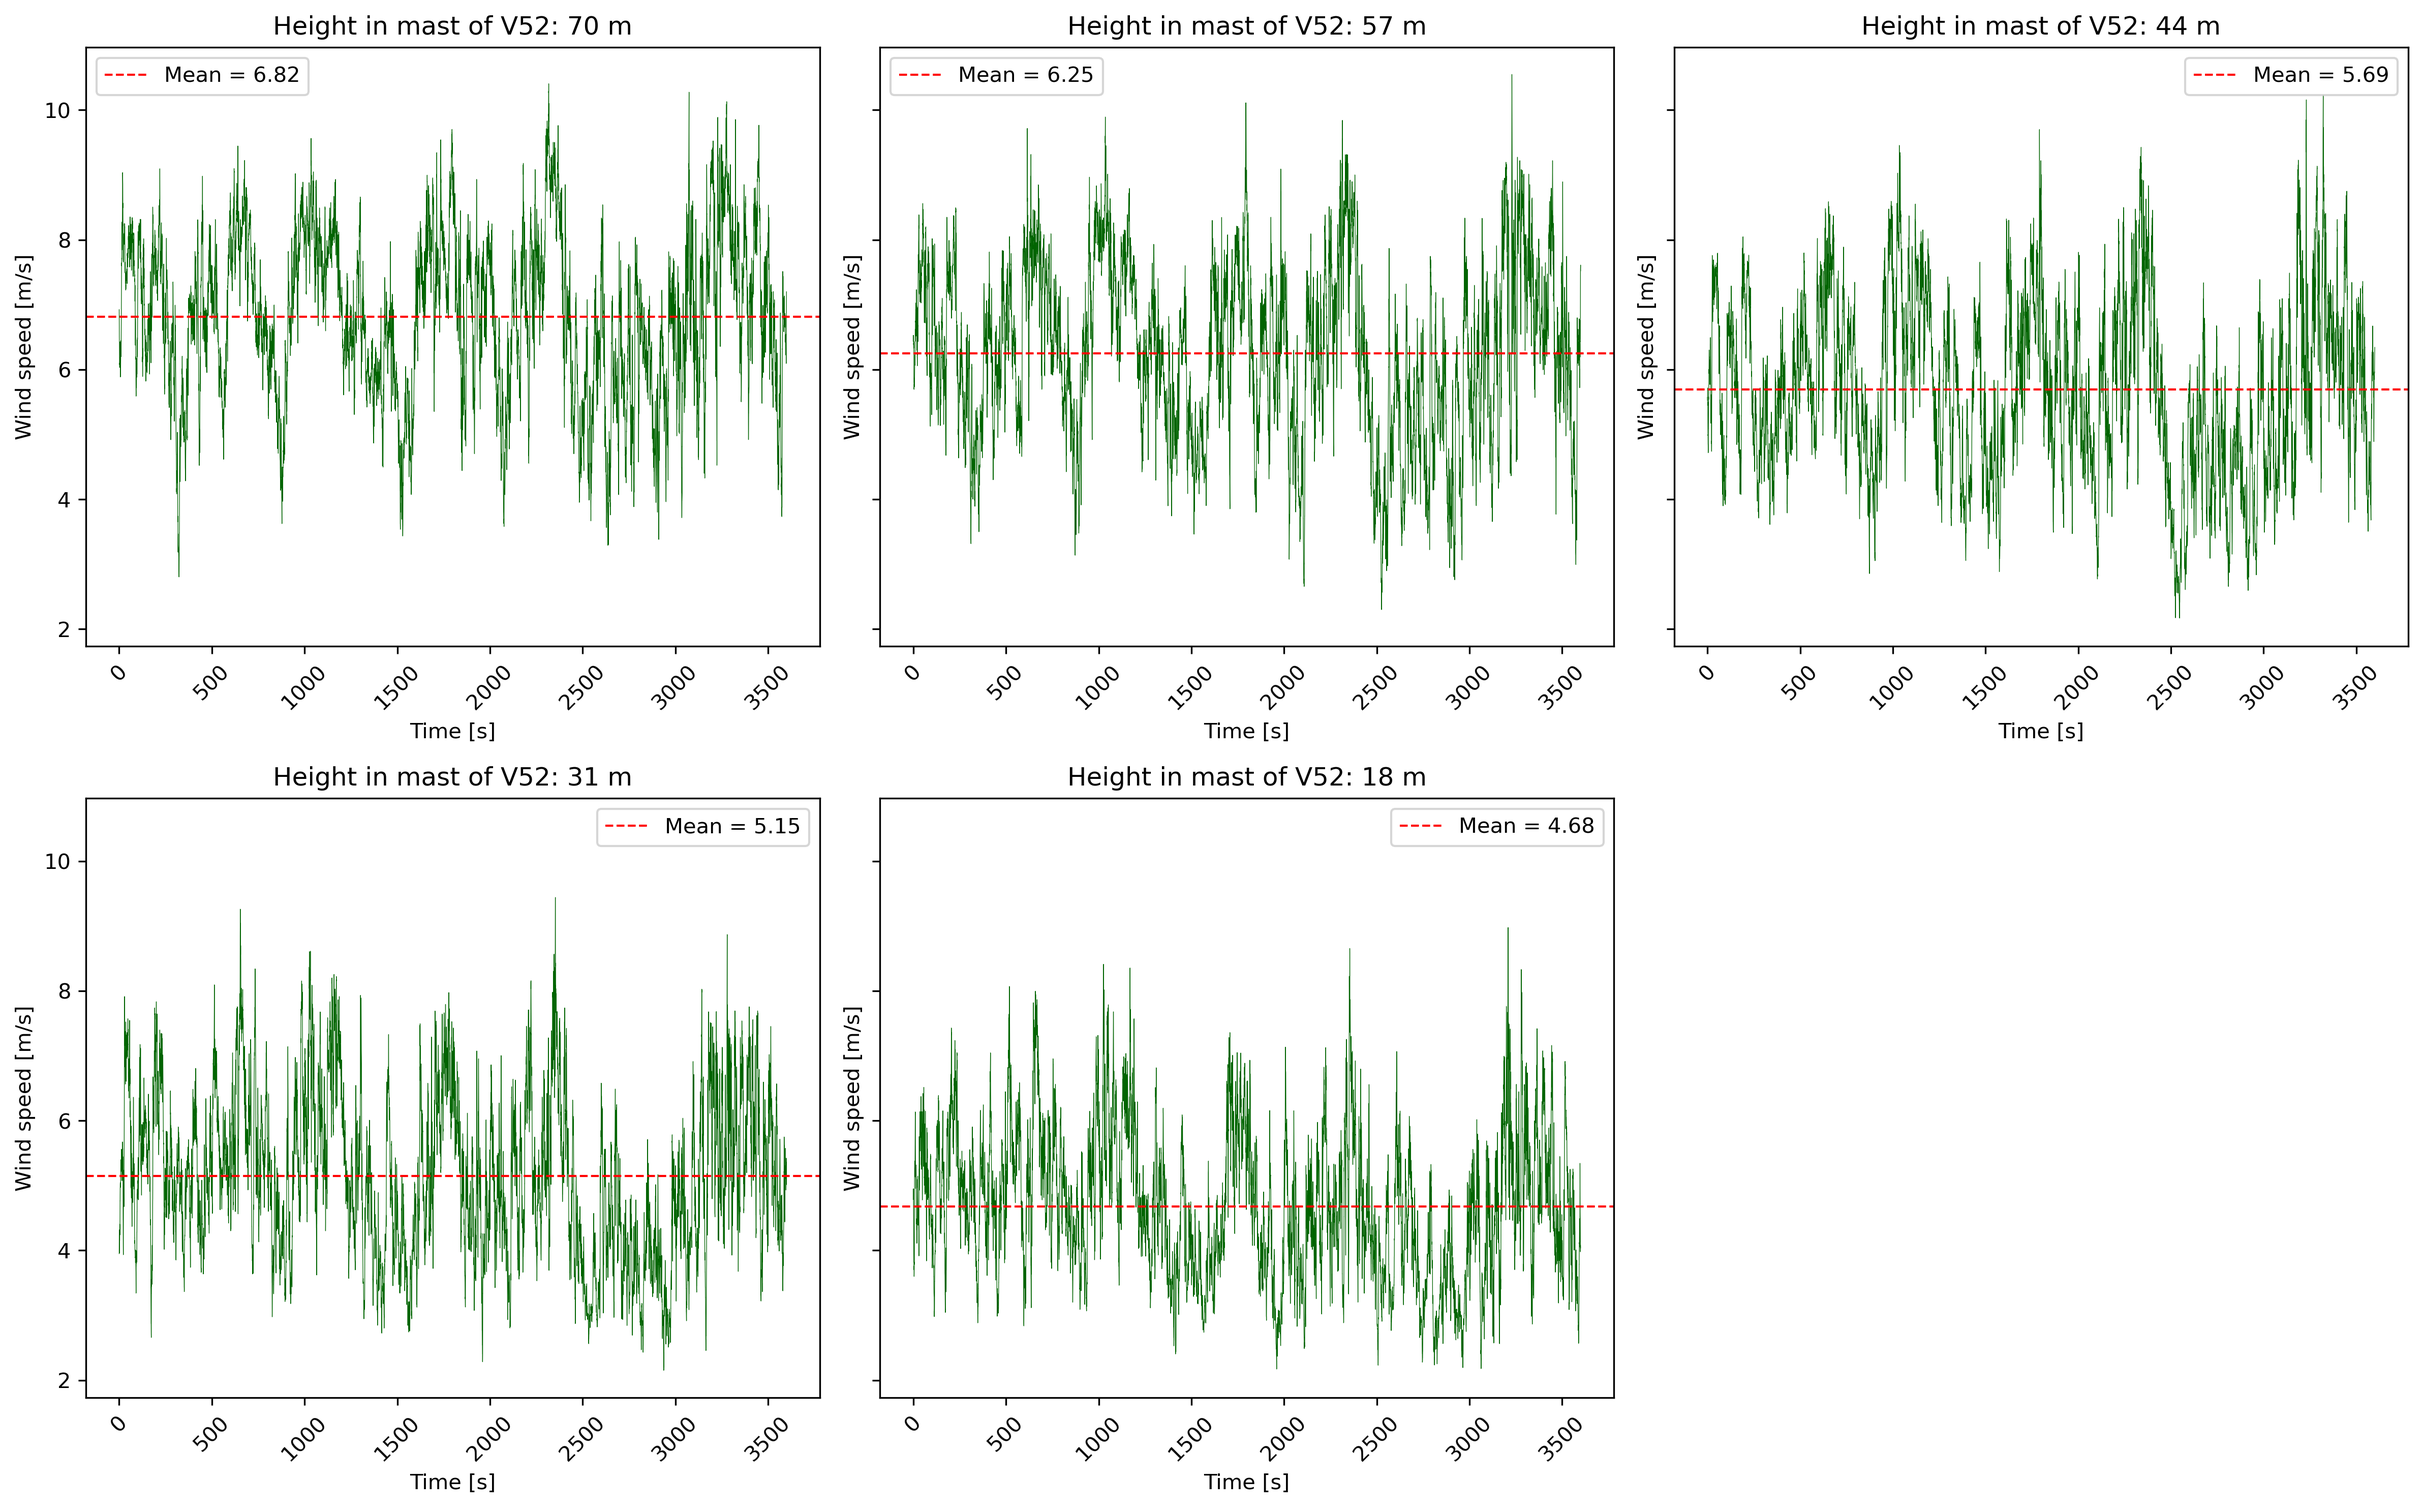
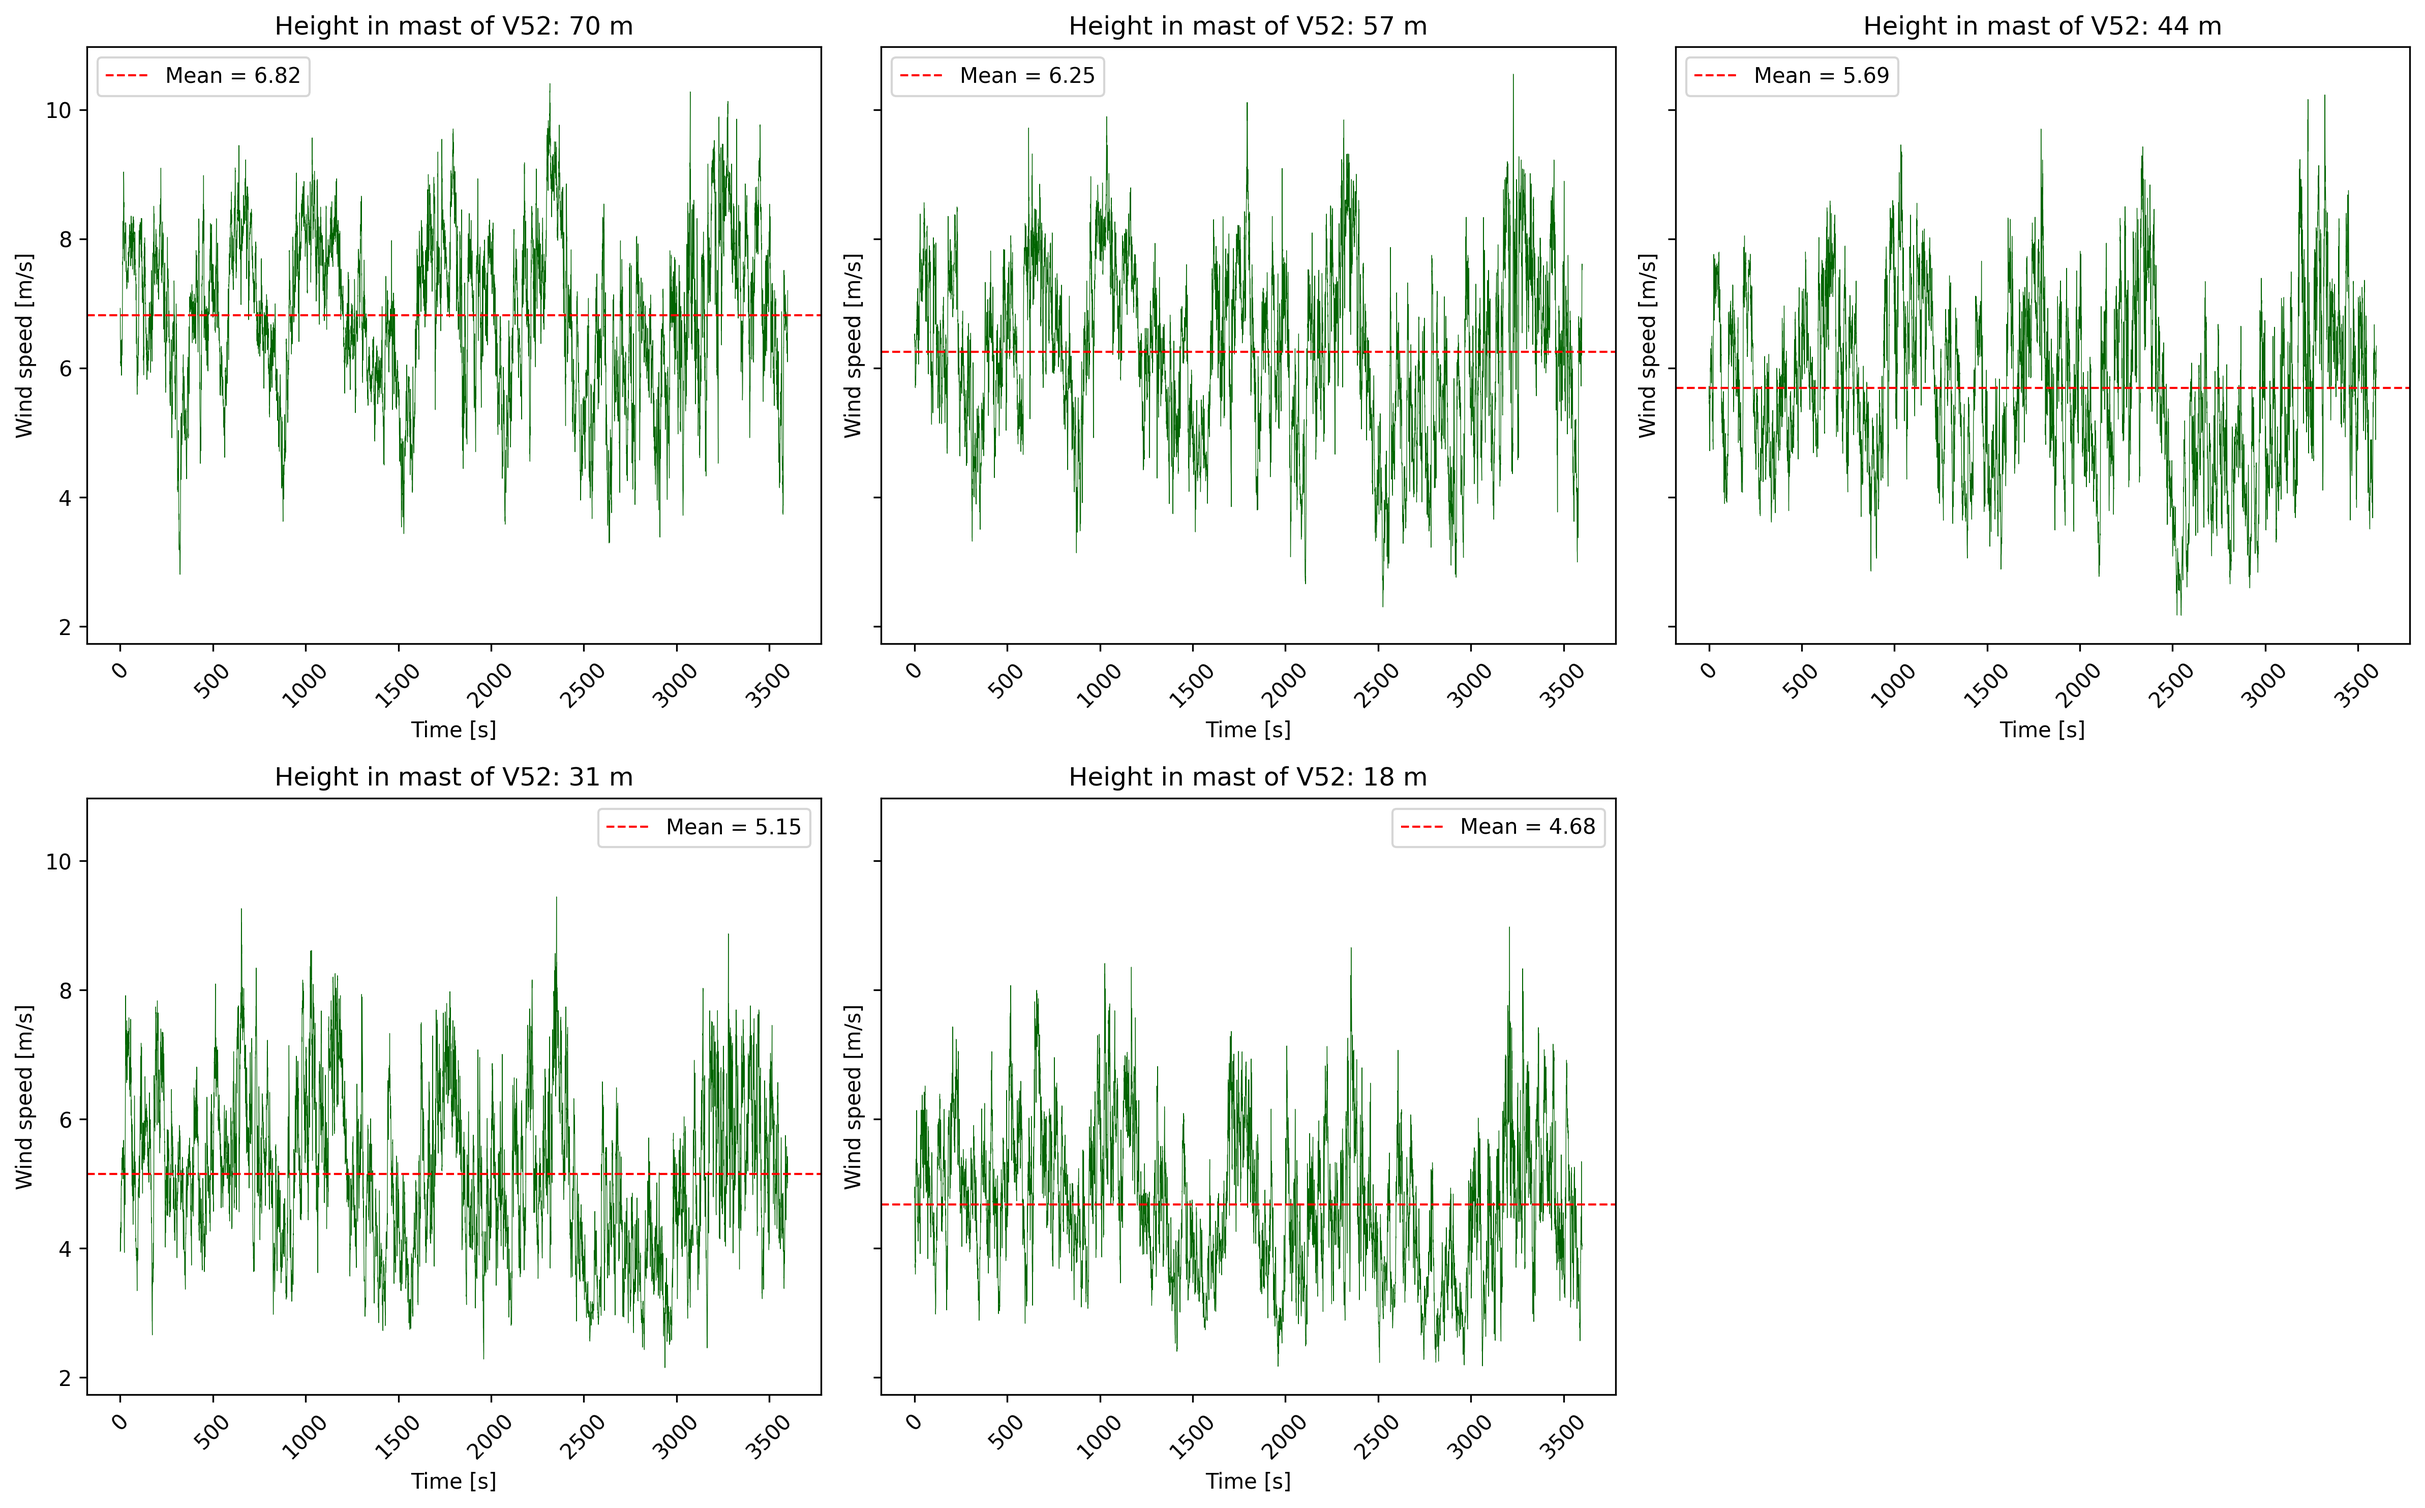
filled in Q's 1-5 in part 1 report + generated Q3

diff --git a/part_1.tex b/part_1.tex
@@ -2,7 +2,7 @@
 \label{sec:part1}
 
 \subsection{Met Mast and Location}
-\textbf{Task:} Describe the met mast and its location. How do the surroundings of the mast look in terms of terrain roughness? How far is the mast from the turbine and in which direction? Why?
+\textbf{Task 1:} Describe the met mast and its location. How do the surroundings of the mast look in terms of terrain roughness? How far is the mast from the turbine and in which direction? Why?
 
 The measurements are from DTU Risø Campus using a met mast with a total height of 70 m. The mast is around 120 m, away from the Vestas V52 wind turbine.
 Regarding the terrain, the location is characterized by varying roughness lengths. To the west, it's dominated by the Roskilde Fjord, which leads to very low terrain roughness. In the other directions, the roughness is higher due to a mix of open fields with light vegetation and the campus buildings.
@@ -11,31 +11,67 @@ Therefore free flow measurements can be obtained.
 % Hier Text einfügen
 
 \subsection{Data Collection}
-\textbf{Task:} Describe the data collected. What has been measured, what units, what sample rate, where at the mast and with what instruments?
+\textbf{Task 2:} Describe the data collected. What has been measured, what units, what sample rate, where at the mast and with what instruments?
 
-The data collected on February 10th, 2026, corresponds to three categories: \textbf{Wsp, AirAbs, Sdir}. They correspond to horizontal wind speeds measured with cup anemometers and wind vanes in $m/s^2$, to temperature measured with \textcolor{red}{how is it measured?} in $\º$C, and southern wind direction in $\º$. 
+The data collected on February 10th, 2026 between 10.00 and 11.00, corresponds to three categories: \textbf{Wsp, AirAbs, and Sdir}. They respectively describe horizontal wind speeds measured in $m/s^2$, temperature measured in $º$ C, and southern wind direction measured in $º$. 
 
-Since the wind is a dynamic fluid, each category varies according to height prompting them to be measured at different rungs of the mast. Wsp is measured at 70 m (i.e. the uppermost level of the mast), 57 m, 44 m, 31 m, and 18 m; then, AirAbs is measured at 70 m and 18 m; and lastly, Sdir is measured at 70 m, 44 m, and 18 m.
+Since wind is a dynamic fluid, and it varies according to its distance from the ground and its temperature, each category varies with height. This encourages recordings for each category to happen simultaneously at different rungs of the mast. Wsp is measured at 70 m (i.e. the uppermost level of the mast), 57 m, 44 m, 31 m, and 18 m; then, AirAbs is measured at 70 m and 18 m; and lastly, Sdir is measured at 70 m, 44 m, and 18 m.
 
-All measurements, i.e. the three categories at their respective mast heights, are simultaneously recorded with 10-minutes resolution. 
+All three categories at their respective mast heights get 3000 readings every 10 minutes, i.e. the have a sampling rate of 5 Hz.
+
+Lastly, the recordings at different heights also indicate the tool used to make the measurements since we know where in the mast of turbine V52 the tools are. As such, for wind speed (Wsp), the cup anemometer and the sonic anemometer are used, for temperature (AirAbs), the thermometer is used, and for wind direction (Sdir) only the sonic anemometer is used since the cup anemometer, which is also installed and the pertinent mast heights, cannot track wind direction.
+
 
 \subsection{Raw Time Series Plot}
-\textbf{Task:} Plot the raw time series of the wind speed at the different heights. What time scales do you see? Do they differ for the different heights?
+\textbf{Task 3:} Plot the raw time series of the wind speed at the different heights. What time scales do you see? Do they differ for the different heights?
 
 \begin{figure}[H]
     \centering
-    % \includegraphics[width=0.8\textwidth]{figures/Q3_plot.png}
+    \includegraphics[width=0.8\textwidth]{figures/Q3_plot.png}
     \caption{Raw wind speed time series at various heights (10th Feb 2026).}
 \end{figure}
 
+The plots in Figure \textcolor{red}{cite the relevant figure} show the wind speeds recorded at different heights, i.e. rungs, of the measurement mast of turbine V52. Across all five of them, one can observe irregularities in the behavior, which correspond to turbulences in the flow of the wind. These are described in two scales––time-wise and spatial––, which in the plots correspond to the duration of the inflections in the curve and to the shape of the curve, respectively.
+
+With this in mind, turbulences seem to occur in a shorter and in a longer time span at all five heights, while keeping a similar overall shape. The first relates to time scales, so changes in wind speed happen in the seconds-long scale, which correspond to local and small disturbances that look almost like noise, and so do they happen in the minutes-long scale, which correspond to overall pattern changes that lead to evident dips and raises in the plots. 
+
+The former scale then lead to the spatial scale, which determines what type of duration the turbulence will have. Sudden changes (seconds-long), like a sudden draft, will usually be physically contained an occur at a specific height, which allows us to have five different plots. However, progressive changes (minutes-long), like the transition from day to night, will usually span several heights and affect a range of air parcels, which results in still similar 5 plots. 
+This is particularly evident in the 2400-3300 seconds range in Figure \textcolor{red}{cite the relevant figure}, which shows a w-shape in the five heights where an important drop is followed by a slight increase, a drop and an important increase in wind speed.
+
+Lastly, height and average wind speed appear to be directly proportional, such that lower heights experience lower mean wind speeds while the opposite is true for higher heights. 
+
 \subsection{Logarithmic Wind Profile}
-\textbf{Task:} Plot the average wind speed for each height against height $z$. Can the profile be described by a logarithmic wind profile?
+\textbf{Task 4:} Plot the average wind speed for each height against height $z$. Can the profile be described by a logarithmic wind profile?
+
+\begin{figure}[H]
+    \centering
+    \includegraphics[width=0.8\textwidth]{figures/Q4_plot.png}
+    \caption{Average wind speeds at various heights and fitted logarithmic profile (10th Feb 2026).}
+\end{figure}
+
+In Q1 we observed that "the prevailing winds in the area come from the west, over the fjord...which leads to very low terrain roughness", yet we must recall that there existed a stretch of open land, recently snowed on, between the fjord and the measurement mast. According to the literature (page 14, slides of "Wind Profiles" Lecture), the roughness length of farmland with open appearance, snow surfaces, and fjords are $0.05$, $10^{-3}$, and $10^{-4}$, respectively. 
+
+The fitted curve however, used $z_0 = 0.9766$, which more closely resembles the roughness of a city. This may be the case because during the day of the visit we had eastern winds, which corresponds to an influx from nearby populated areas like Ågerup or further and denser areas like Copenhagen.
 
 \subsection{Roughness Length and Friction Velocity}
-\textbf{Task:} Estimate the roughness length $z_0$ and the friction velocity $u_*$ from the observed wind profile.
+\textbf{Task 5:} Estimate the roughness length $z_0$ and the friction velocity $u_*$ from the observed wind profile.
+
+\begin{figure}[H]
+    \centering
+    \includegraphics[width=0.8\textwidth]{figures/Q5_plot.png}
+    \caption{Turbulence intensity at various heights (10th Feb 2026)}
+\end{figure}
+
+Turbulence intensity is the ratio of the standard deviation and mean value of the wind speed. It is thus dimensionless, and it helps to quantify how "erratic" turbulences are. 
+
+Figure $\textcolor{red}{figure number}$ shows a general indirect proportionality between height and turbulence: the greater the height at which the measurement was taken, the lower the turbulence intensity. There is, however, a slight deviation from this pattern at turbulence intensity measured at 31 m since it is higher than the turbulence intensity measured at 18 m. 
+
+The overall pattern is likely dictated by the disminution of obstacles and the homogeneity of temperature at greater heights. Immediately around turbine V52 there is no large objects, e.g. skyscrappers, dense forests, etc., so there is fewer occassions for disrupting wind flow. Then, the ground, which absorbs and later emits the most heat in the course of a day and supports objects (machinery, buildings, etc.) with their individual heat absorption and radiation, introduces a heat gradient that alters more the temperature of the wind at lower heights. 
+
+The former will be generally true and the single observable deviation in the decrease of turbulence intensity with speed at 31 m may come from an overlap with other large objects, greater wind drafts at that height, or ...
 
 \subsection{Stability Impact}
-\textbf{Task:} Estimate the lapse rate by using the data from the two temperature sensors at 18m and 70m.
+\textbf{Task 6:} Estimate the lapse rate by using the data from the two temperature sensors at 18m and 70m.
 Compare its value with the dry adiabatic lapse rate and give a comment. Discuss the validity of the logarithmic profile under the observed stability conditions. 
 
 
@@ -69,10 +105,10 @@ The logarithmic wind profile is valid only for neutral conditions, where buoyanc
 
 
 \subsection{Heat Flux and Stability}
-\textbf{Task:} Estimate the friction velocity and the heat flux from the sonic anemometer data.
+\textbf{Task 7:} Estimate the friction velocity and the heat flux from the sonic anemometer data.
 
 \subsection{Weather Conditions}
-\textbf{Task:} How was the weather at the day of visit? Does the observed weather support your finding of question 7?
+\textbf{Task 8:} How was the weather at the day of visit? Does the observed weather support your finding of question 7?
 
 
 The day we visited Risø was windy from the eastern direction with some snowflakes. Generally, the site experiences western winds from the fjord, but that was not the case that day.
